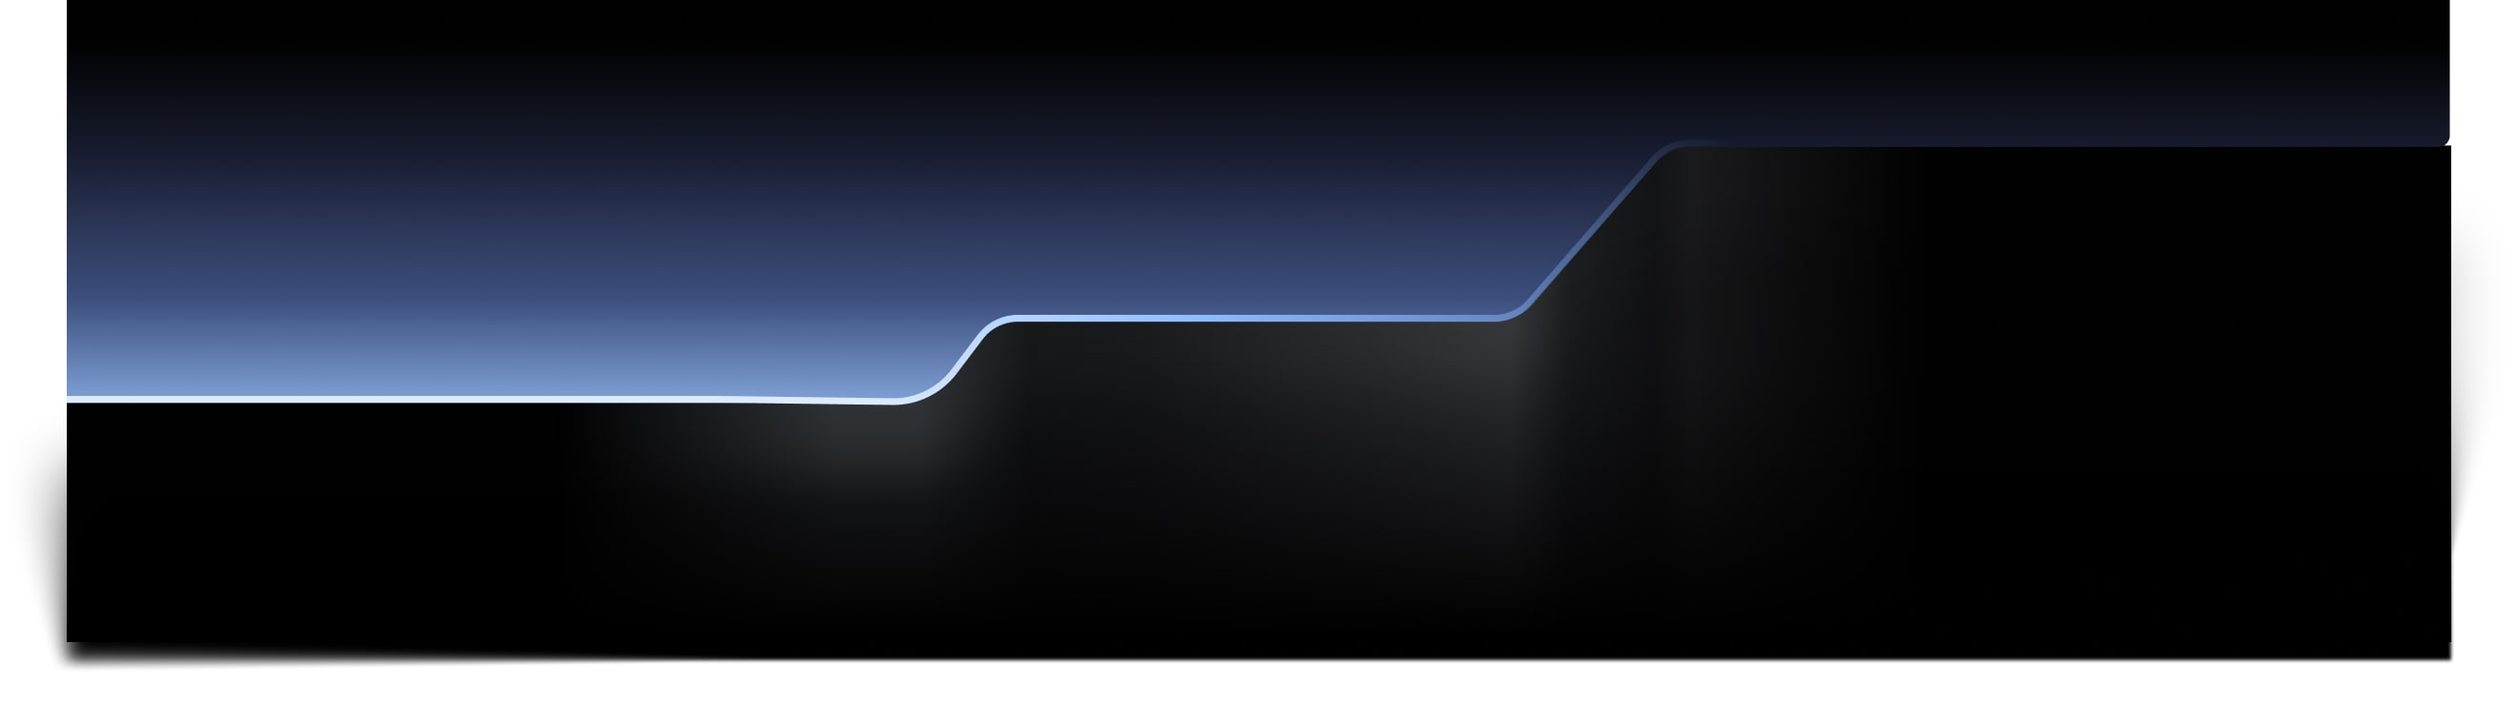
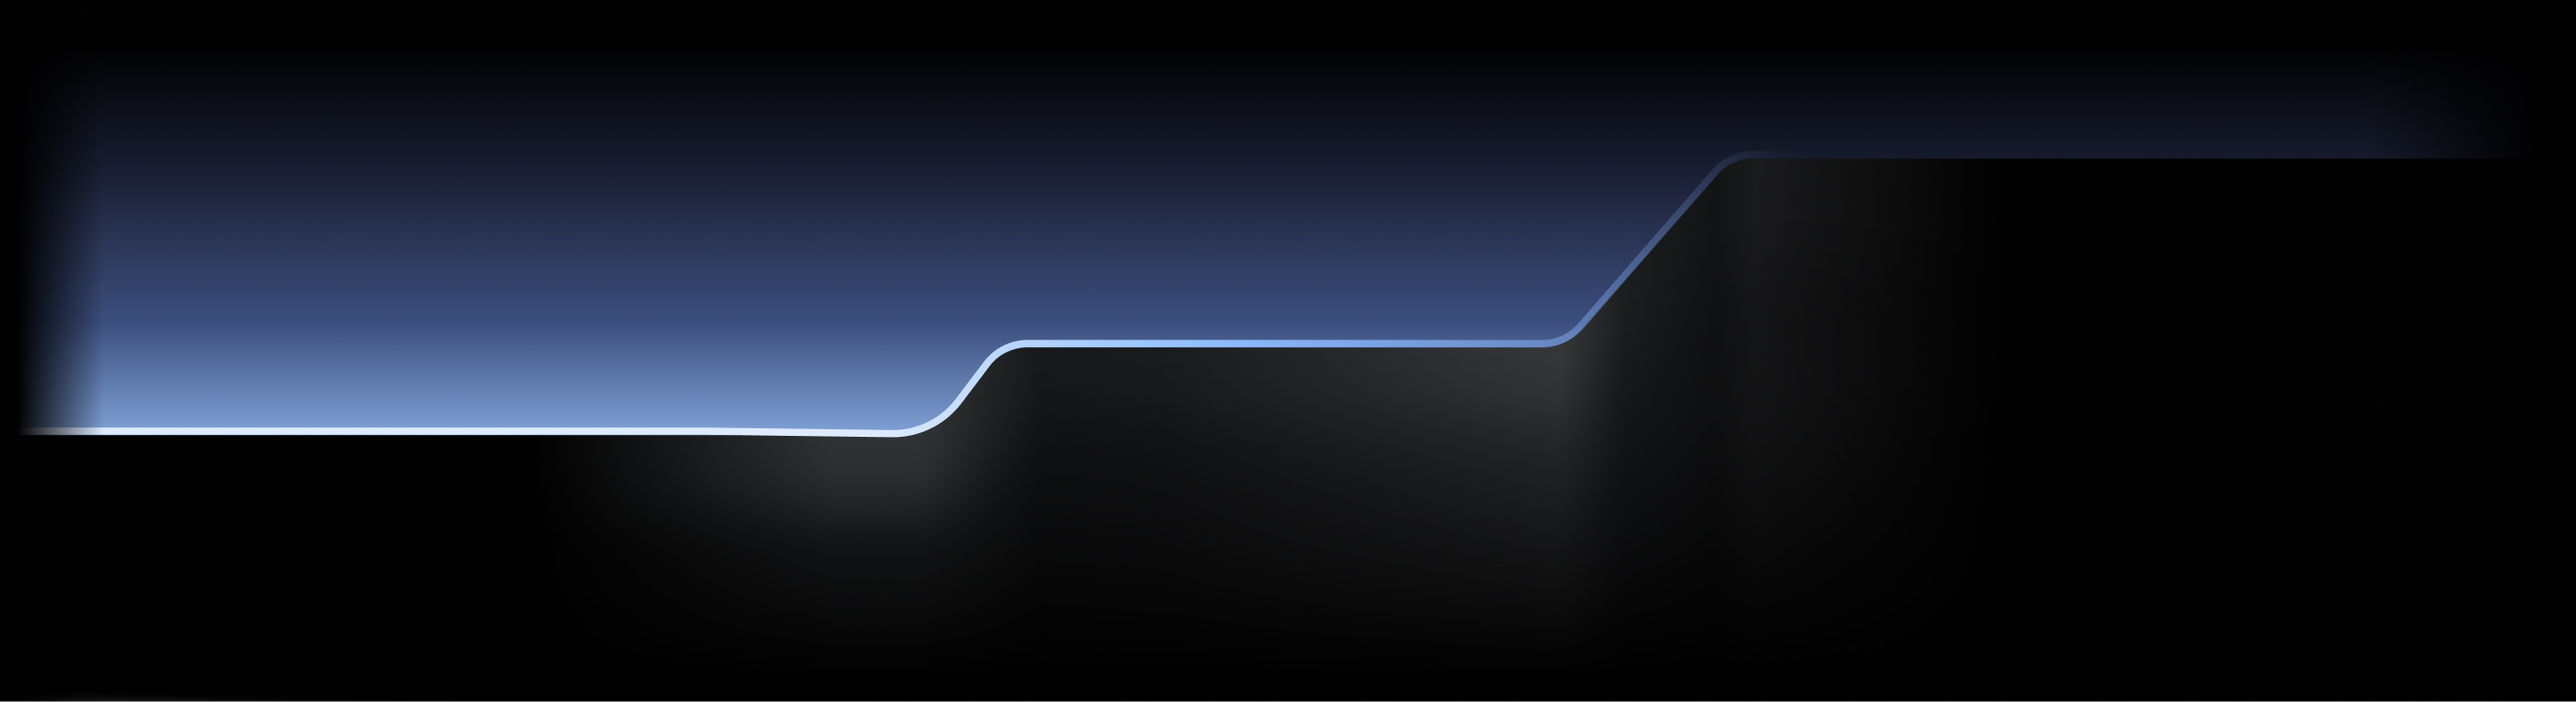
update bug

Changed region(s): [[0.0, 0.0, 1.0, 1.0]]

diff --git a/src/components/pages/home/products.tsx b/src/components/pages/home/products.tsx
@@ -322,7 +322,7 @@ const Products = () => {
             w={"100%"}
             padding={"20px 16px 16px"}
             background={
-              "linear-gradient(0deg, var(--pre-order-bg-light) 20%, var(--bg-color) 95%)"
+              "linear-gradient(0deg, var(--pre-order-bg-light) 20%, var(--pre-market-bg) 95%)"
             }
             gap={"0px"}
             borderRadius={"16px"}
@@ -453,7 +453,7 @@ const Products = () => {
             w={"100%"}
             padding={"20px 16px 16px"}
             background={
-              "linear-gradient(0deg, var(--pre-order-bg-light) 20%, var(--bg-color) 95%)"
+              "linear-gradient(0deg, var(--pre-order-bg-light) 20%, var(--pre-market-bg) 95%)"
             }
             gap={"0px"}
             borderRadius={"16px"}

diff --git a/src/index.css b/src/index.css
@@ -94,6 +94,7 @@
   --hero-radial-bg-extra: rgba(0, 8, 18, 0.035);
   --hero-border-color: rgba(255, 255, 255, 0.15);
   --referral-layout-bg: rgba(0, 0, 1, 0);
+  --pre-market-bg: rgba(0, 0, 0, 0);
 }
 
 body {
